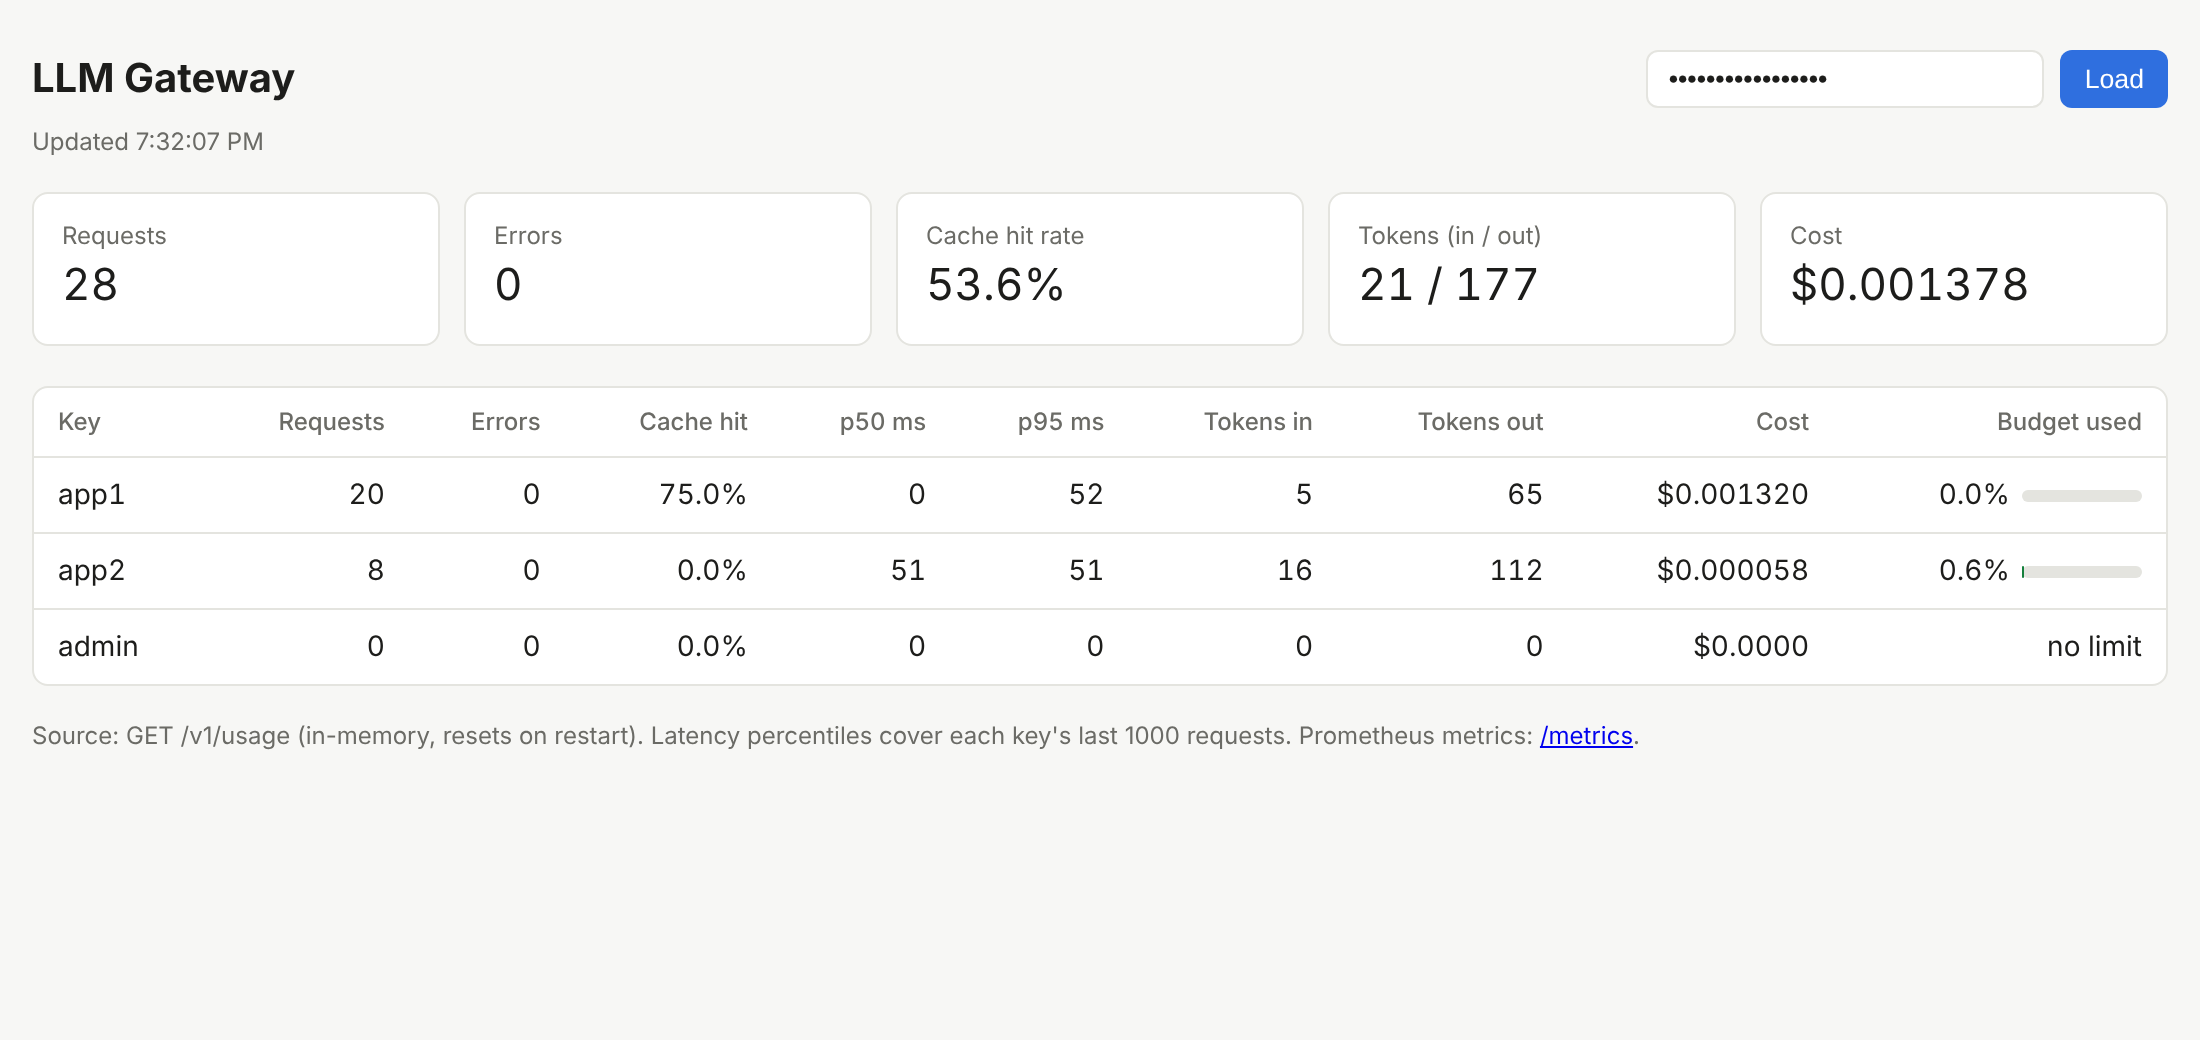
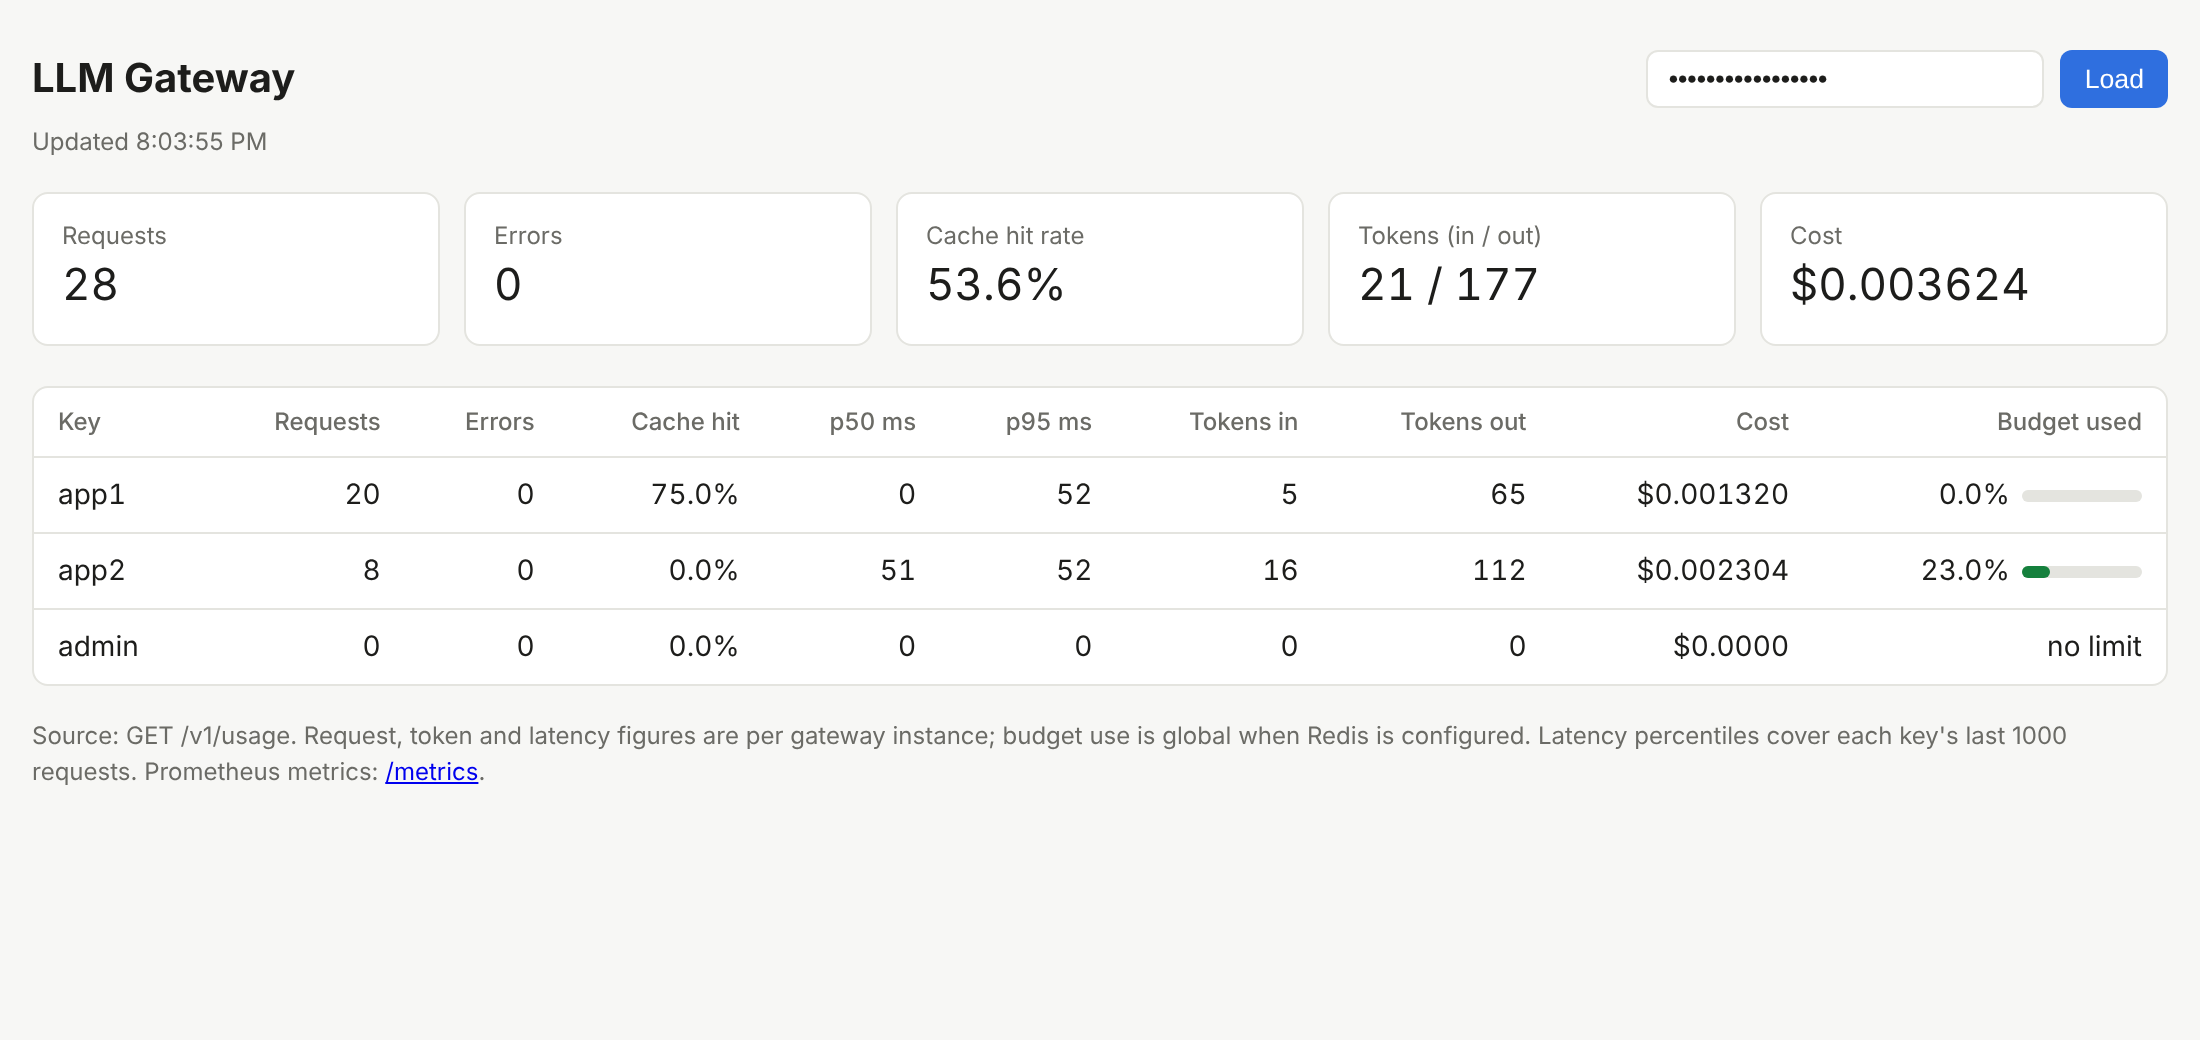
Refresh dashboard screenshot and summary

diff --git a/SUMMARY.md b/SUMMARY.md
@@ -21,7 +21,7 @@ A self-hostable LLM gateway in TypeScript (Node 22, Fastify) that sits between c
 |---|---|
 | Upstream LLM in tests, demo and load test | Mocked: `MockProvider`, deterministic, with configurable latency, chunk delay and error rate |
 | Anthropic upstream | Real code using the official SDK, active only with `ANTHROPIC_API_KEY`. Tested offline with a fake `fetch`; not exercised against the live API in this environment |
-| Rate limiting, response cache and budgets in Redis | Real: tested against a local Redis and a Redis service in CI |
+| Rate limiting, response cache and budgets in Redis | Real: contract-tested against a local Redis and a Redis service in CI; shared budgets also checked by hand with two gateway instances on one Redis |
 | Metrics, traces, logs | Real libraries (prom-client, OpenTelemetry SDK, pino). Traces export to Jaeger via OTLP in docker-compose |
 | Prices | Real per-token list prices for the configured Claude models at the time of writing; mock models reuse them so cost numbers are realistic |
 | Docker image | Built and smoke-tested in CI. The development sandbox could not pull base images, so the runtime stage was verified by running the production install locally |
